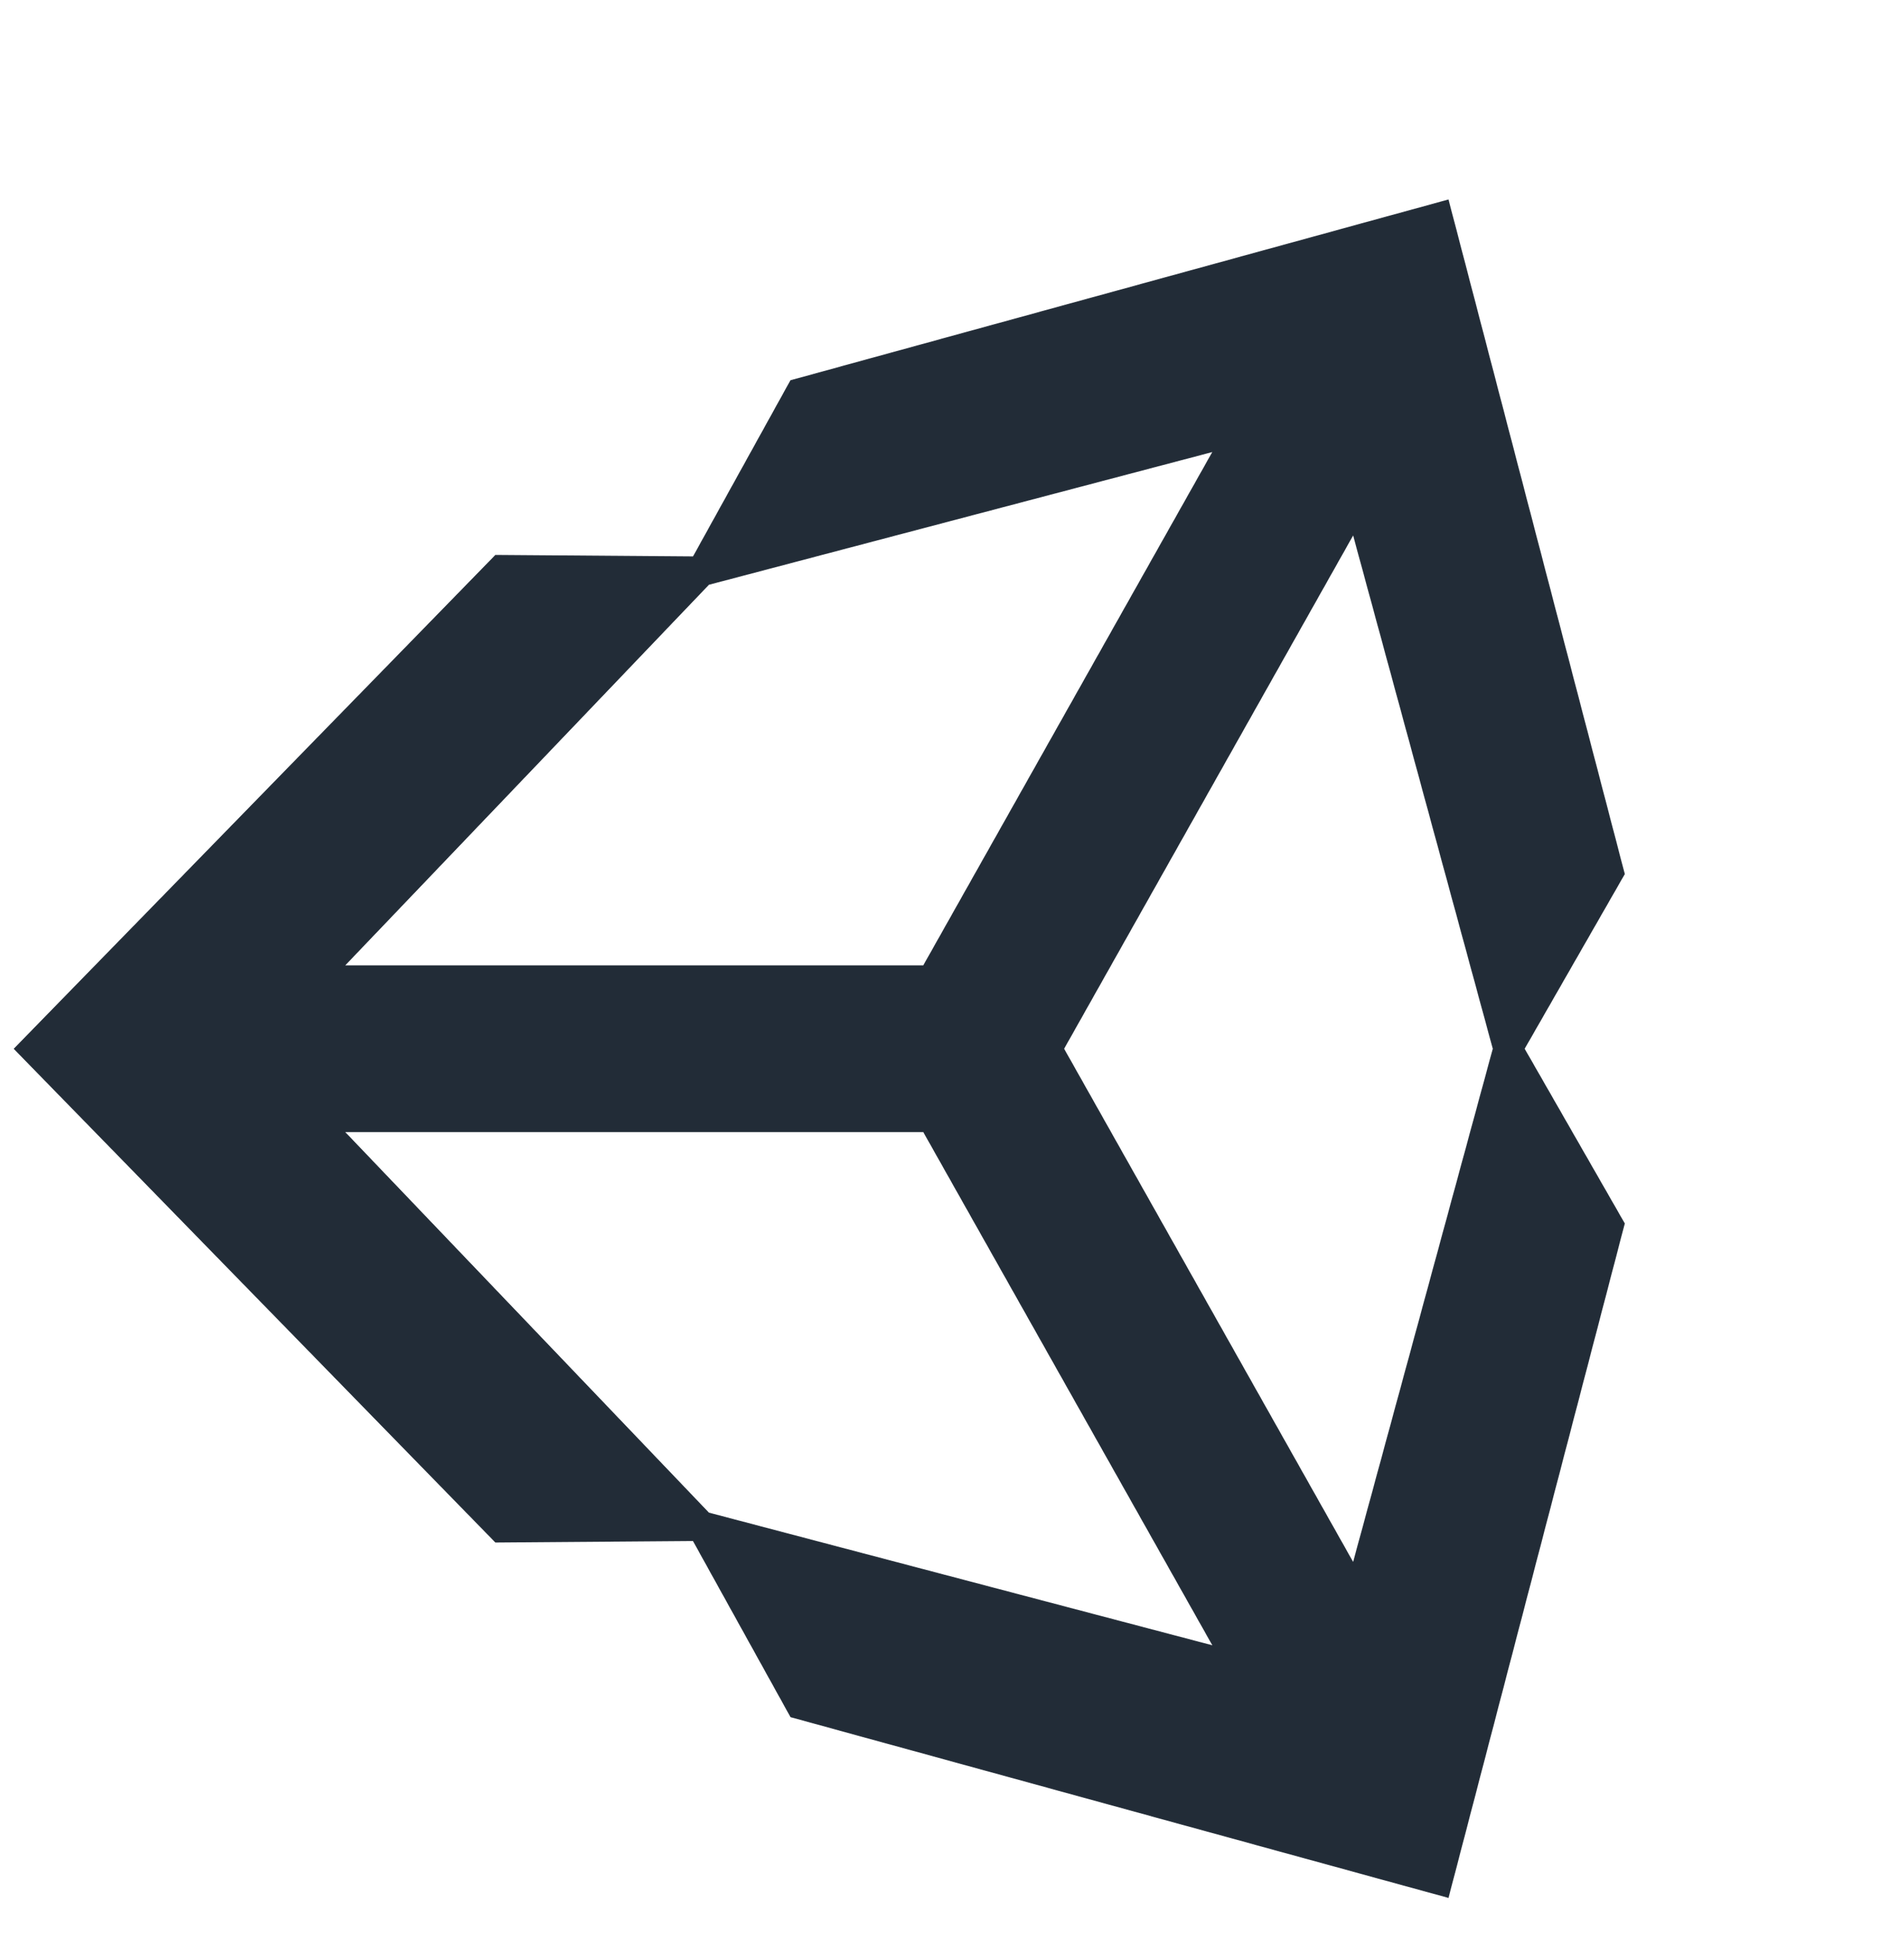
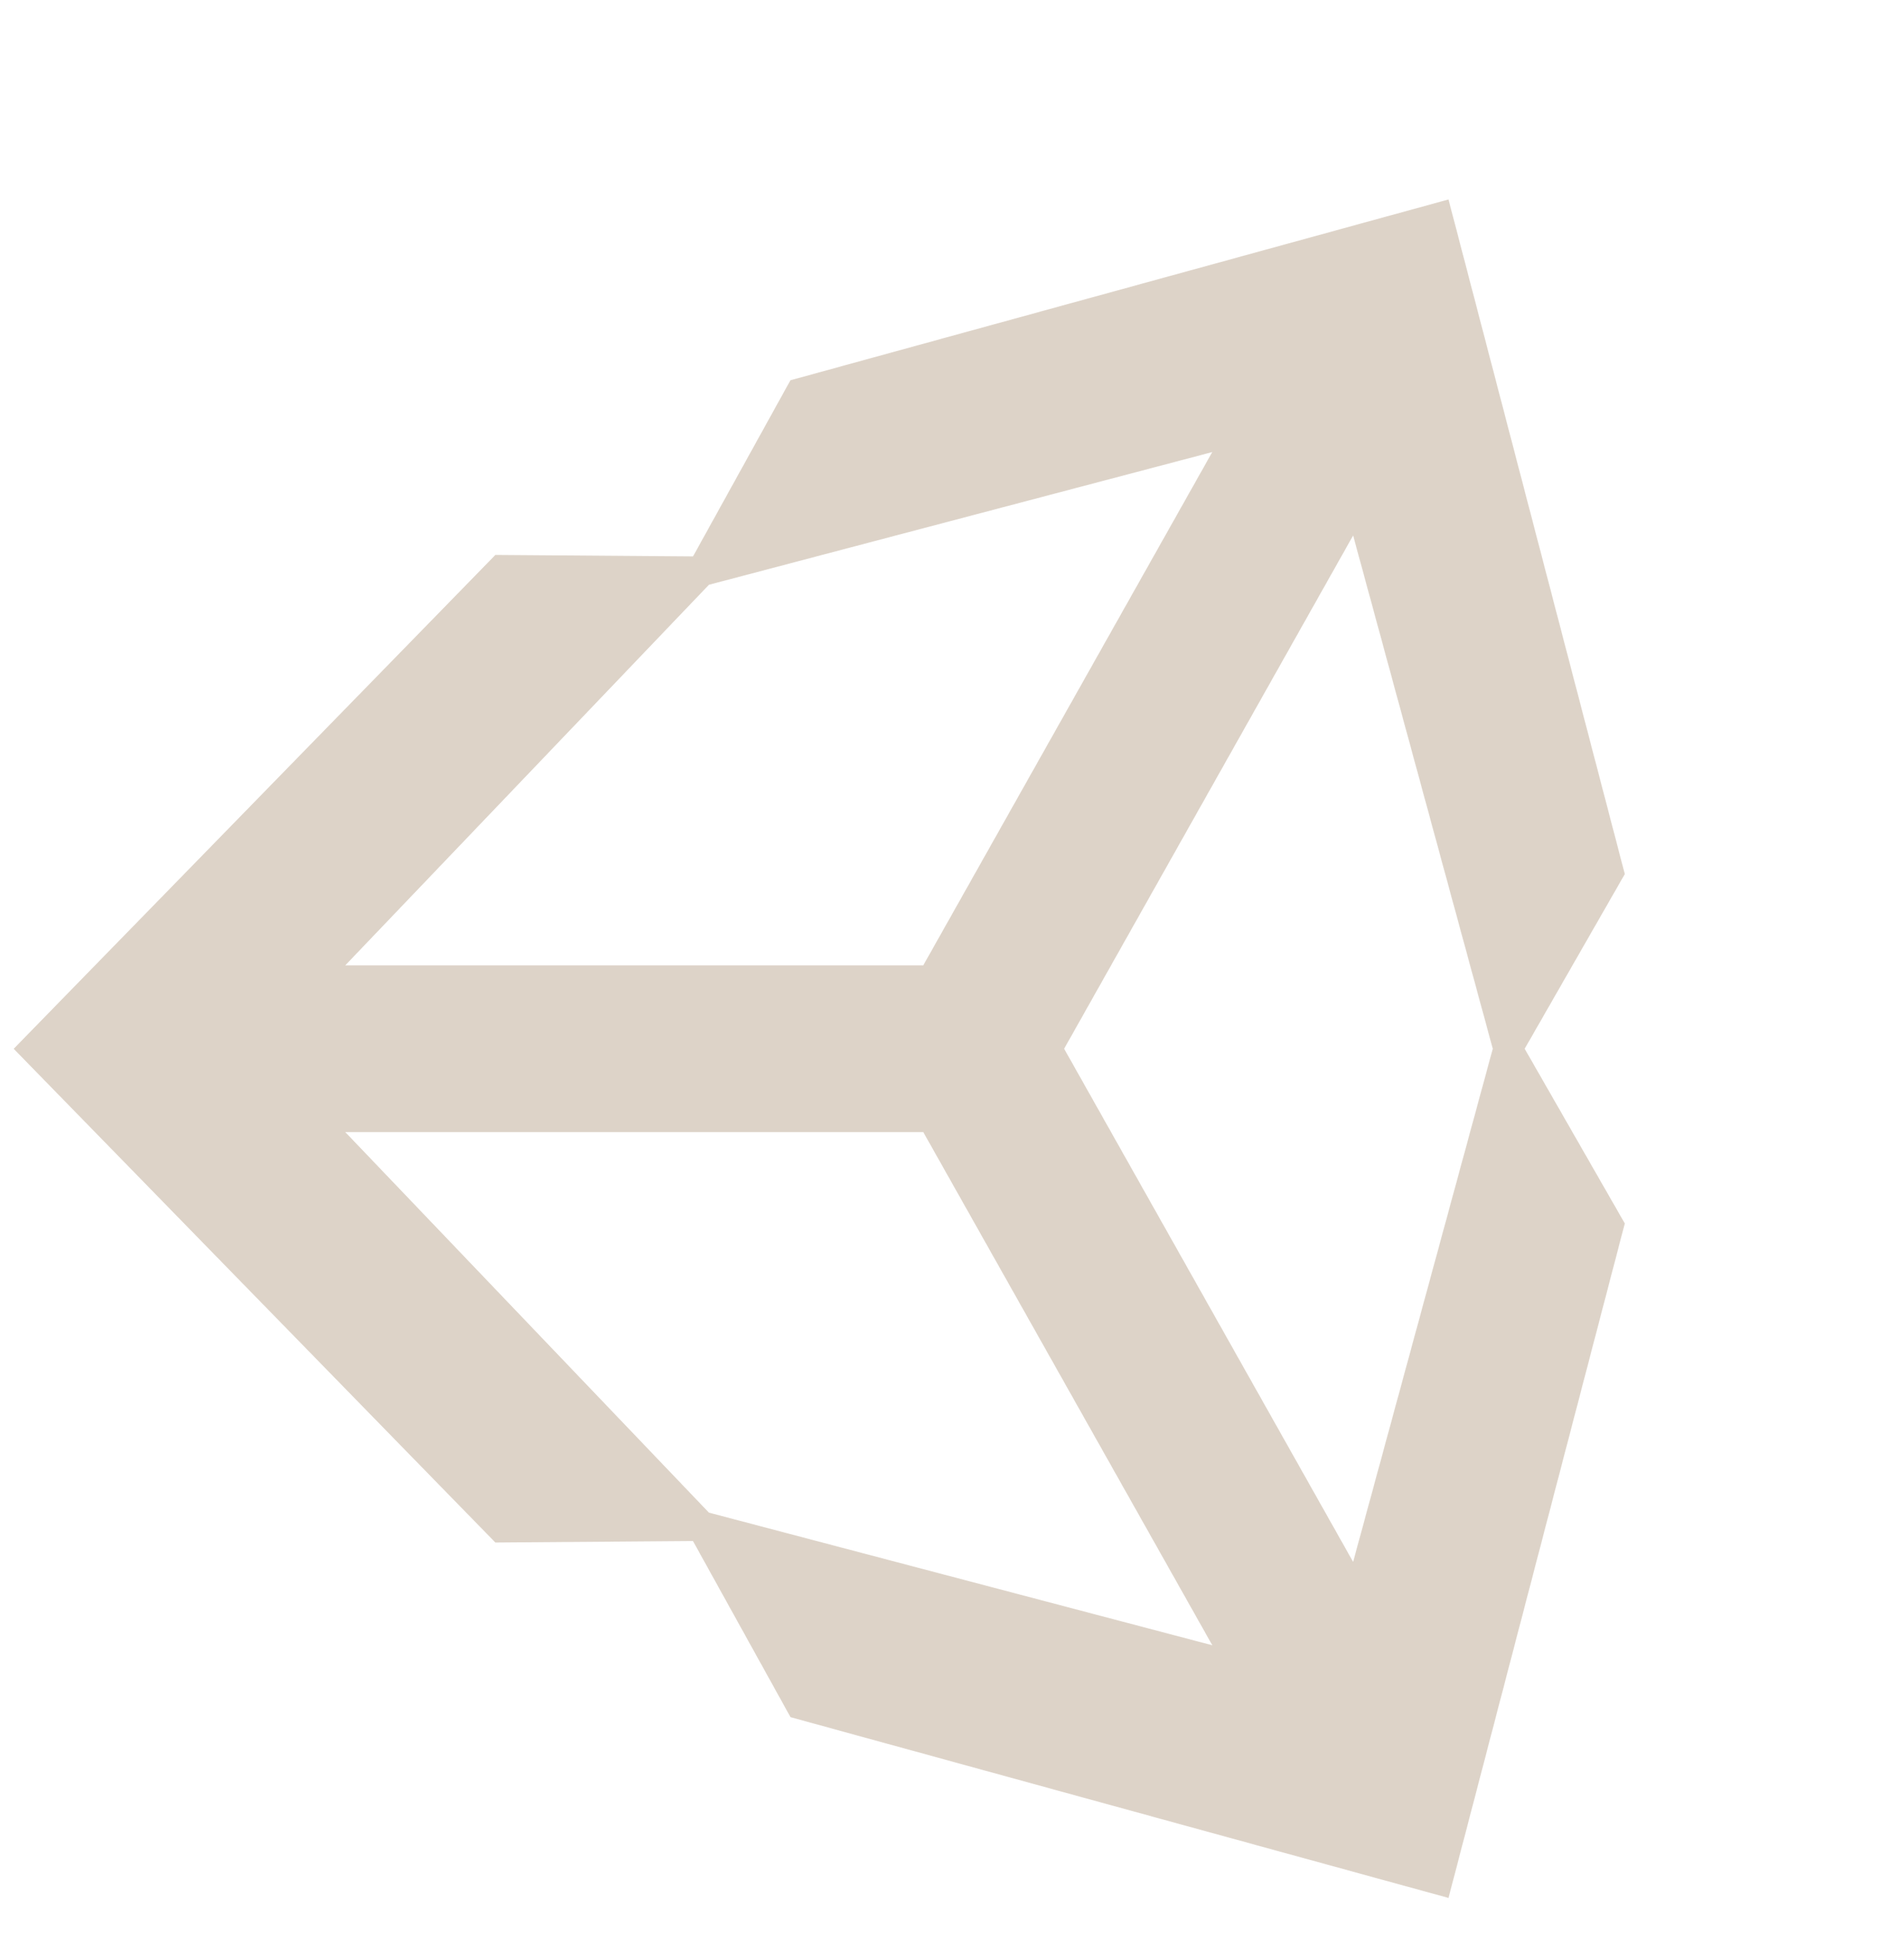
contact form and other things

Changed region(s): [[0.0, 0.0928, 0.8721, 0.9903]]

diff --git a/paulo-portfolio/src/home/partials/TechContainer/index.jsx b/paulo-portfolio/src/home/partials/TechContainer/index.jsx
@@ -3,10 +3,14 @@ import { useState } from "react"
 import TechIcon from '../TechIcon';
 
 import Unreal from '../../../images/unreal.png';
+import UnrealS from '../../../images/unrealsmall.png';
 import Unity from '../../../images/unity.png';
+import UnityS from '../../../images/unitysmall.png';
 import Photoshop from '../../../images/photoshop.png';
-import HTML5 from '../../../images/html5.png';
-import Illustrator from '../../../images/illustrator.png';
+import Excel from  '../../../images/excel.png';
+import Xd from '../../../images/xd.png';
+import Premiere from '../../../images/premiere.png';
+import Audition from '../../../images/audition.png';
 import CardBg from '../../../images/cardbg.png'
 import styled from "styled-components";
 
@@ -28,19 +32,18 @@ const infos = {
     image: Unity,
     content:
       <>
-        <li>Environment</li>
-        <li>Blueprints</li>
-        <li>Full Game Development</li>
-        <li>C++</li>
-        <li>Light</li>
-        <li>RealTime Render</li>
+        <li>Unity things</li>
+        <li>Changing prices</li>
+        <li>Revoking licenses</li>
+        <li>C#</li>
+        <li>what</li>
       </>
   },
   "Photoshop": {
     image: Photoshop,
     content:
       <>
-        <li>Environment</li>
+        <li>Memery</li>
         <li>Blueprints</li>
         <li>Full Game Development</li>
         <li>C++</li>
@@ -48,8 +51,20 @@ const infos = {
         <li>RealTime Render</li>
       </>
   },
-  "HTML5": {
-    image: HTML5,
+  "Excel": {
+    image: Excel,
+    content:
+      <>
+        <li>Memery</li>
+        <li>Blueprints</li>
+        <li>Full Game Development</li>
+        <li>C++</li>
+        <li>Light</li>
+        <li>RealTime Render</li>
+      </>
+  },
+  "Xd": {
+    image: Xd,
     content:
       <>
         <li>Environment</li>
@@ -60,8 +75,8 @@ const infos = {
         <li>RealTime Render</li>
       </>
   },
-  "Illustrator": {
-    image: Illustrator,
+  "Premiere": {
+    image: Premiere,
     content:
       <>
         <li>Environment</li>
@@ -71,7 +86,19 @@ const infos = {
         <li>Light</li>
         <li>RealTime Render</li>
       </>
-  }
+  },
+  "Audition": {
+    image: Audition,
+    content:
+      <>
+        <li>Environment</li>
+        <li>Blueprints</li>
+        <li>Full Game Development</li>
+        <li>C++</li>
+        <li>Light</li>
+        <li>RealTime Render</li>
+      </>
+  },
 }
 
 const TechContainer = () => {
@@ -85,15 +112,17 @@ const TechContainer = () => {
   return (
     <Container>
       <Slider $isviewing={view !== null}>
-        <Buttons>
+        <Buttons>-
           <Title>Skills & Experience</Title>
           <Subtitle>Paulo Durbeck</Subtitle>
           <HexagonContainer>
-            <TechIcon onClick={() => handleClick("Unreal")} src={Unreal} alt="Unreal" />
-            <TechIcon onClick={() => handleClick("Unity")} src={Unity} alt="Unity" />
+            <TechIcon onClick={() => handleClick("Unreal")} src={UnrealS} alt="Unreal" />
+            <TechIcon onClick={() => handleClick("Unity")} src={UnityS} alt="Unity" />
             <TechIcon onClick={() => handleClick("Photoshop")} src={Photoshop} alt="Photoshop" />
-            <TechIcon onClick={() => handleClick("HTML5")} src={HTML5} alt="HTML5" />
-            <TechIcon onClick={() => handleClick("Illustrator")} src={Illustrator} alt="Illustrator" />
+            <TechIcon onClick={() => handleClick("Excel")} src={Excel} alt="Excel" />
+            <TechIcon onClick={() => handleClick("Xd")} src={Xd} alt="xd" />
+            <TechIcon onClick={() => handleClick("Premiere")} src={Premiere} alt="premiere" />
+            <TechIcon onClick={() => handleClick("Audition")} src={Audition} alt="audition" />
           </HexagonContainer>
         </Buttons>
         <CardContainer onClick={() =>
@@ -167,7 +196,7 @@ const Buttons = styled.div`
 `
 
 const HexagonContainer = styled.div`
-  max-width: 32vw;
+  max-width: 35vw;
   flex-wrap: wrap;
 
   display: flex;
@@ -205,7 +234,6 @@ const Card = styled.div`
   
   > img {
     height: 200px;
-    filter: invert(1);
     margin-left: 3%;
   }
 

diff --git a/paulo-portfolio/src/home/partials/ContactForm/index.jsx b/paulo-portfolio/src/home/partials/ContactForm/index.jsx
@@ -1,6 +1,7 @@
 import React from 'react';
 import styled from "styled-components"
 
+import pfp from '../../../images/pfp.png';
 
 
 
@@ -11,7 +12,15 @@ const ContactForm = () => {
       <Subtitle>Paulo Durbeck</Subtitle>
 
       <FormContainer>
-        WHAT
+        <img src={pfp} alt="Paulo Ian Durbeck" />
+        <Description>
+        "Lorem ipsum dolor sit amet, consectetur adipiscing elit, sed do eiusmod tempor incididunt ut labore et dolore magna aliqua. Ut enim ad minim veniam, quis nostrud exercitation ullamco laboris nisi ut aliquip ex ea commodo consequat. Duis aute irure dolor in reprehenderit in voluptate velit esse cillum dolore eu fugiat nulla pariatur. Excepteur sint occaecat cupidatat non proident, sunt in culpa qui officia deserunt mollit anim id est laborum."
+        </Description>
+        <h2>CONTACT ME</h2>
+
+        <FormBottom>
+        
+        </FormBottom>
       </FormContainer>
     </Container>
   )
@@ -23,6 +32,7 @@ export default ContactForm
 const Container = styled.div`
   display: flex;
   flex-direction: column;
+  align-items: center;
   padding: 10vw;
 `
 
@@ -48,5 +58,28 @@ const Subtitle = styled.h3`
 const FormContainer = styled.div`
   width: 95vw;
   background-color: #F5F3EF;
-  max-width: 800px;
+  max-width: 750px;
+
+  display: flex;
+  flex-direction: column;
+  align-items: center;
+  padding: 8% 0%;
+  margin-top: 10%;
+  color: #182934;
+
+  > img {
+    height: 150px;
+  }
 ` 
+
+const Description = styled.span`
+  margin-top: 5%;
+  font-weight: 700;
+  letter-spacing: 0.08rem;
+  max-width: 70%;
+  text-align: left;
+`
+
+const FormBottom = styled.div`
+  display: flex;
+`
